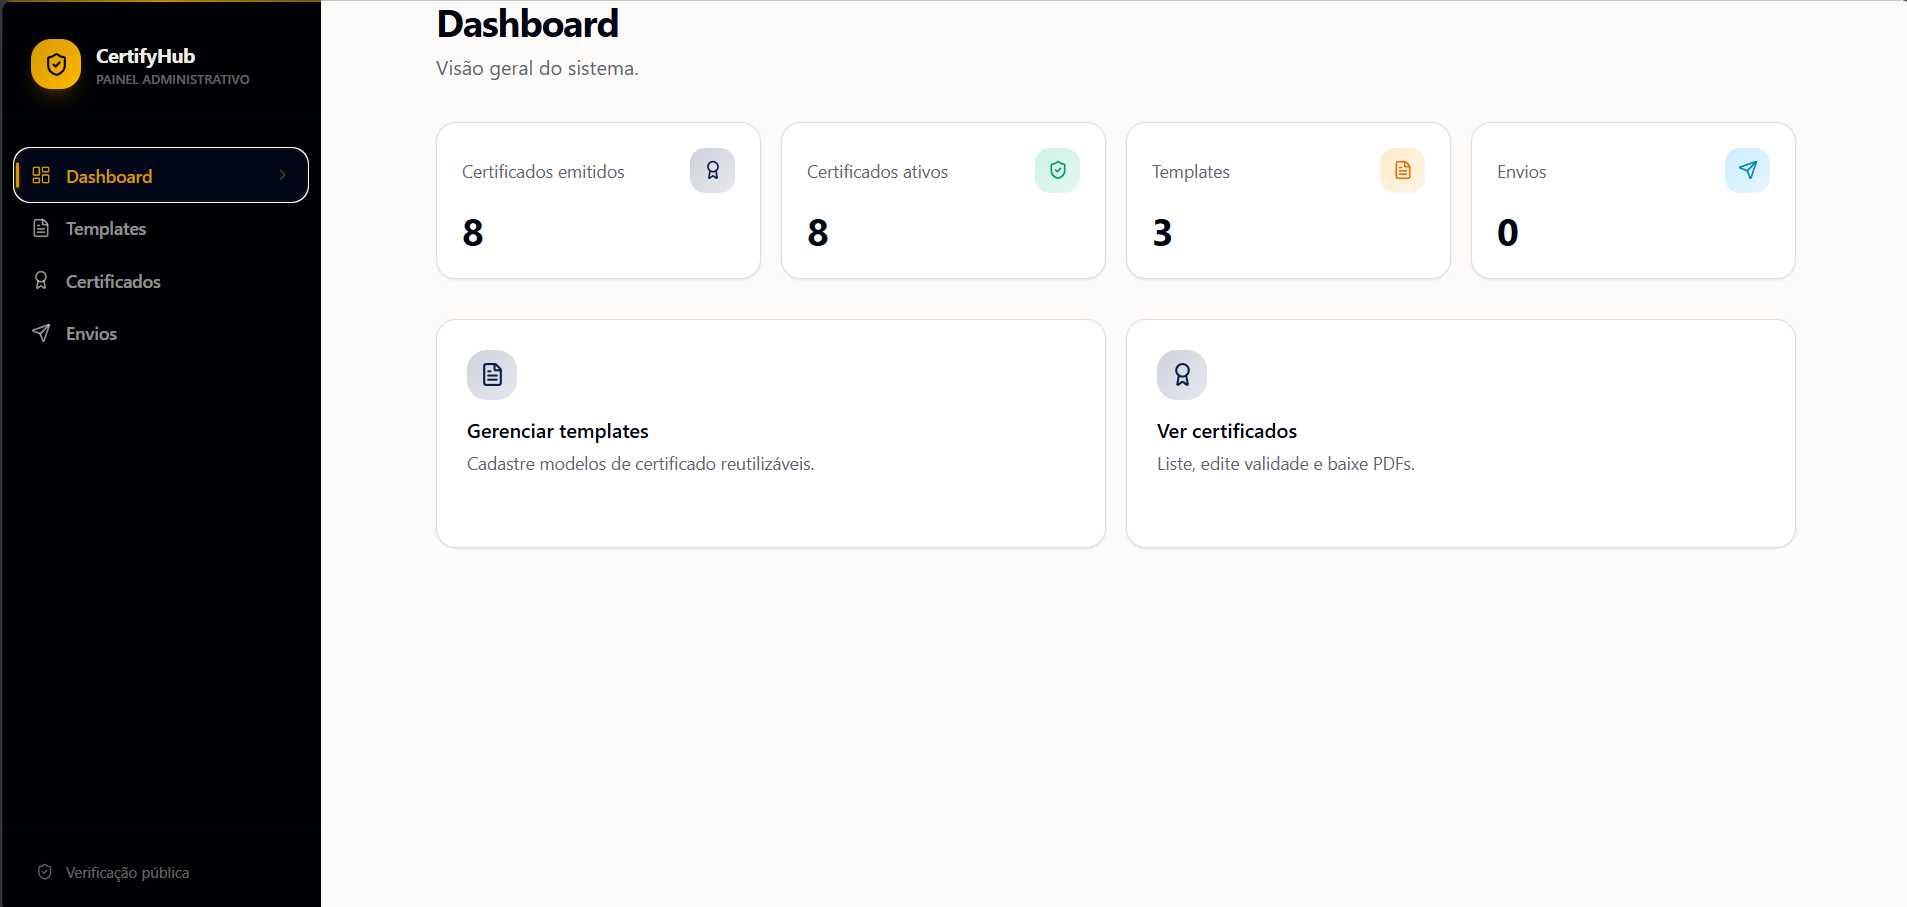
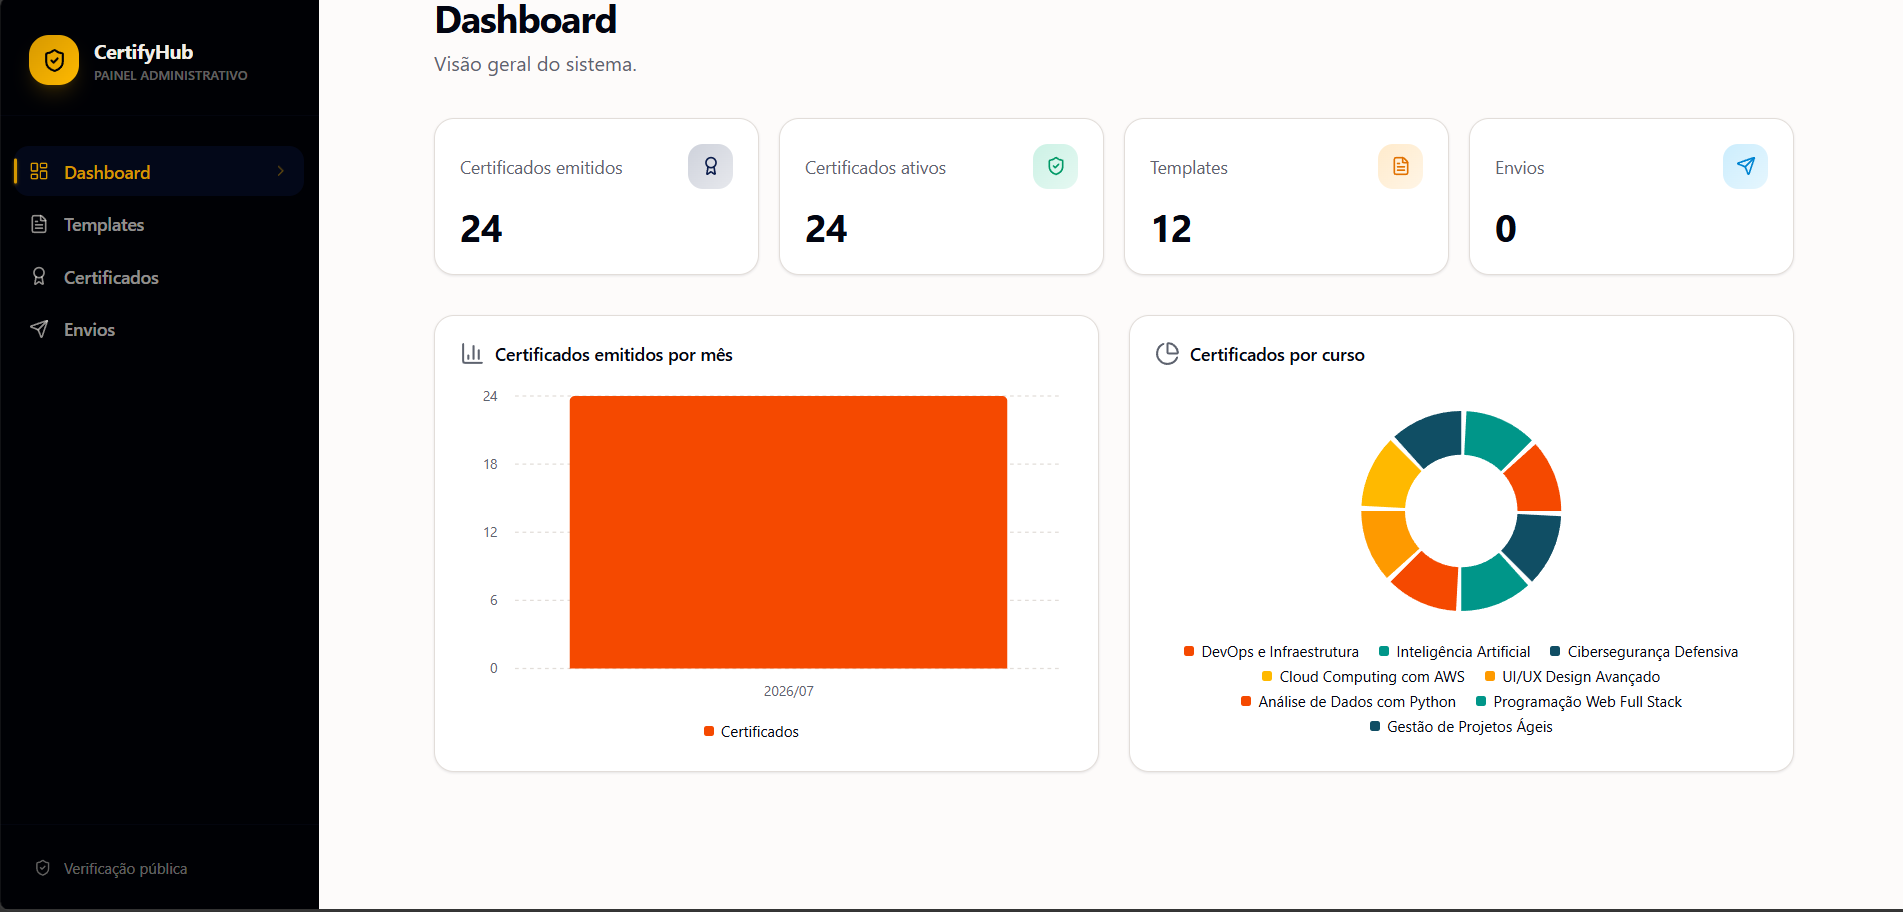
Atualiza repositorios, dashboard, testes frontend (121 testes, 13 suites) e justificativa do qrcode

diff --git a/partes/software.tex b/partes/software.tex
@@ -2,7 +2,7 @@
 
 \subsection{Implantação}
 
-O sistema é composto por duas aplicações independentes implantadas na plataforma Render, a partir de um repositório central no GitHub (\url{https://github.com/igordev23/Relatorio-Tecnico-de-Software---IFPI--Igor}). O sistema é publicado sob subdomínios automáticos fornecidos pela plataforma, garantindo tráfego criptografado via SSL/HTTPS de forma nativa. O frontend pode ser acessado, por exemplo, em \url{https://certificate-hub.onrender.com}, enquanto a API do backend responde em \url{https://certificate-server-zd0m.onrender.com}.
+O sistema é composto por duas aplicações independentes implantadas na plataforma Render, a partir de dois repositórios no GitHub: frontend (\url{https://github.com/igordev23/certificate-hub}) e backend (\url{https://github.com/igordev23/Certificate-server}). O sistema é publicado sob subdomínios automáticos fornecidos pela plataforma, garantindo tráfego criptografado via SSL/HTTPS de forma nativa. O frontend pode ser acessado, por exemplo, em \url{https://certificate-hub.onrender.com}, enquanto a API do backend responde em \url{https://certificate-server-zd0m.onrender.com}.
 
 \subsubsection{Arquitetura e Execução}
 
@@ -220,11 +220,11 @@ Os testes foram classificados como unitários, uma vez que cada módulo (fronten
 
 \input{partes/plano_testes}
 
-O Quadro~\ref{qua:plano-testes} relaciona 60 casos de teste mapeados, incluindo cenários funcionais, não-funcionais, \textit{end-to-end} e de resiliência. Cada caso pode ser validado por um ou mais testes automatizados, totalizando 276 testes unitários implementados com o framework Jest e 1 teste \textit{end-to-end} implementado com Playwright. A coluna \textbf{Status} indica se o caso foi executado por teste automatizado (\textit{Executado}), executado de forma limitada (\textit{Parcial}) ou apenas planejado sem automação (\textit{Planejado}). As subseções seguintes detalham os resultados da execução em cada módulo.
+O Quadro~\ref{qua:plano-testes} relaciona 60 casos de teste mapeados, incluindo cenários funcionais, não-funcionais, \textit{end-to-end} e de resiliência. Cada caso pode ser validado por um ou mais testes automatizados, totalizando 289 testes unitários implementados com o framework Jest e 1 teste \textit{end-to-end} implementado com Playwright. A coluna \textbf{Status} indica se o caso foi executado por teste automatizado (\textit{Executado}), executado de forma limitada (\textit{Parcial}) ou apenas planejado sem automação (\textit{Planejado}). As subseções seguintes detalham os resultados da execução em cada módulo.
 
 \subsubsection{Frontend (Certificate Hub)}
 
-O frontend contém 11 suítes de testes com 108 testes unitários, abrangendo as \textit{ViewModels} dos módulos de templates (\ref{rf:upload-templates}--\ref{rf:duplicar-templates}), certificados (\ref{rf:gerar-pdf}--\ref{rf:download-lote}), \textit{dashboard} (\ref{rf:lista-certificados}--\ref{rf:estatisticas-emissao}) e validação pública (\ref{rf:portal-validacao}--\ref{rf:exibir-validacao}), além dos serviços de API, componentes de formulário e dos modelos de domínio.
+O frontend contém 13 suítes de testes com 121 testes unitários, abrangendo as \textit{ViewModels} dos módulos de templates (\ref{rf:upload-templates}--\ref{rf:duplicar-templates}), certificados (\ref{rf:gerar-pdf}--\ref{rf:download-lote}), \textit{dashboard} (\ref{rf:lista-certificados}--\ref{rf:estatisticas-emissao}) e validação pública (\ref{rf:portal-validacao}--\ref{rf:exibir-validacao}), além dos serviços de API, componentes de formulário e dos modelos de domínio.
 
 A métrica de cobertura, gerada automaticamente pelo Jest por meio da ferramenta Istanbul, indica a proporção do código-fonte que é exercitada durante a execução dos testes. O relatório é organizado em quatro categorias: \textit{Statements} (comandos executados), \textit{Branches} (ramos de decisão, como \texttt{if/else}), \textit{Functions} (funções chamadas) e \textit{Lines} (linhas de código percorridas). A Figura~\ref{fig:coverage-frontend} apresenta o relatório de cobertura gerado para o frontend.
 
@@ -236,7 +236,7 @@ A métrica de cobertura, gerada automaticamente pelo Jest por meio da ferramenta
 \caption*{\small Fonte: Elaborado pelo autor}
 \end{figure}
 
-Conforme ilustrado, o frontend atingiu 95,58\% de cobertura de comandos (\textit{Statements}), 88,40\% de ramos (\textit{Branches}), 94,11\% de funções (\textit{Functions}) e 97,09\% de linhas (\textit{Lines}). O diretório \texttt{models} obteve cobertura total (100\%), enquanto \texttt{services} alcançou 94,59\% e \texttt{view-models} 95,70\% em comandos. A cobertura de ramos em \texttt{services} (88,88\%) reflete a presença de tratamentos condicionais de erro que não foram todos exercitados nos testes.
+Conforme ilustrado, o frontend atingiu 82,6\% de cobertura de comandos (\textit{Statements}), 65,38\% de ramos (\textit{Branches}), 83,33\% de funções (\textit{Functions}) e 83,66\% de linhas (\textit{Lines}). O \texttt{useEditCertificateViewModel.ts} passou de 0\% para 95,55\% em comandos e 100\% em funções após a inclusão de testes. O \texttt{schemas.test.ts} recebeu 9 novos testes para o \texttt{updateCertificateSchema}, abrangendo validação de CPF e campos obrigatórios. Os únicos ramos não cobertos (65,38\%) são os guards \texttt{if (!active)} no \texttt{useEffect} --- um aborto que só ocorre se o componente desmontar antes do \textit{fetch}, caso raro e aceitável.
 
 \subsubsection{Backend (Certificate Server)}
 
@@ -285,13 +285,13 @@ A Tabela~\ref{tab:testes-resumo} consolida os resultados dos testes em ambos os 
 \toprule
 \textbf{Módulo} & \textbf{Suítes} & \textbf{Testes} & \textbf{Cobertura} & \textbf{Tempo} \\
 \midrule
-Frontend (Certificate Hub) & 11 & 108 & 95,58\% & 38,57\,s \\
+Frontend (Certificate Hub) & 13 & 121 & 82,6\% & 38,57\,s \\
 Backend (Certificate Server) & 19 & 168 & 96,53\% & 14,86\,s \\
 E2E (Playwright) & 1 & 1 & -- & 8,43\,s \\
 \midrule
-\textbf{Total} & \textbf{31} & \textbf{277} & \textbf{--} & \textbf{61,86\,s} \\
+\textbf{Total} & \textbf{33} & \textbf{290} & \textbf{--} & \textbf{61,86\,s} \\
 \bottomrule
 \end{tabular}
 \vspace{0.3em}
-\footnotesize\textbf{Nota:} Os 277 testes automatizados (108 + 168 + 1 E2E) referem-se exclusivamente aos testes unitários, de integração e \textit{end-to-end}. Desses, 4 são casos de teste não-funcionais (CT052 a CT055): CT052 (carga) possui teste automatizado no backend com 10 chamadas concorrentes em \textless 5s; CT053 (autenticação) e CT054 (\textit{rate limiting}) foram integralmente automatizados no \textit{middleware}; CT055 (acessibilidade) possui teste automatizado de navegação Tab no frontend, porém sem auditoria com ferramentas como \texttt{axe-core}.
+\footnotesize\textbf{Nota:} Os 290 testes automatizados (121 + 168 + 1 E2E) referem-se exclusivamente aos testes unitários, de integração e \textit{end-to-end}. Desses, 4 são casos de teste não-funcionais (CT052 a CT055): CT052 (carga) possui teste automatizado no backend com 10 chamadas concorrentes em \textless 5s; CT053 (autenticação) e CT054 (\textit{rate limiting}) foram integralmente automatizados no \textit{middleware}; CT055 (acessibilidade) possui teste automatizado de navegação Tab no frontend, porém sem auditoria com ferramentas como \texttt{axe-core}.
 \end{table}

diff --git a/partes/resumo.tex b/partes/resumo.tex
@@ -2,7 +2,7 @@
 \textbf{RESUMO}
 \end{center}
 
-Empresas de treinamento e instituições educacionais ainda dependem de processos manuais e soluções improvisadas para emissão de certificados, o que gera retrabalho, inconsistências e ausência de mecanismos confiáveis de validação. Este trabalho apresenta o desenvolvimento de um sistema web no modelo SaaS (Software as a Service) para emissão, gestão e autenticação pública de certificados. A solução adota uma arquitetura desacoplada estruturada em duas aplicações independentes: um \textit{frontend} do tipo \textit{Single Page Application} (SPA) desenvolvido com React e TypeScript, e um \textit{backend} (Next.js) orientado aos princípios da Arquitetura Limpa, organizado nas camadas de apresentação, aplicação, domínio e infraestrutura. A persistência de dados ocorre em um banco relacional (PostgreSQL), enquanto a geração de PDFs é processada no servidor. As funcionalidades implementadas incluem \textit{templates} configuráveis com editor visual, emissão individual com código único e \textit{QR Code}, \textit{dashboard} gerencial e portal público de validação. O ciclo de vida da aplicação conta com \textit{pipeline} de CI/CD para integração e implantação contínuas em nuvem. A qualidade do software foi atestada por uma robusta suíte de testes automatizados (277 testes), alcançando cobertura de código superior a 95\% em ambos os módulos. Conclui-se que o produto, operando em produção como um Produto Mínimo Viável (MVP), atingiu os objetivos propostos, superando as restrições do fluxo manual por meio de uma plataforma escalável e segura.
+Empresas de treinamento e instituições educacionais ainda dependem de processos manuais e soluções improvisadas para emissão de certificados, o que gera retrabalho, inconsistências e ausência de mecanismos confiáveis de validação. Este trabalho apresenta o desenvolvimento de um sistema web no modelo SaaS (Software as a Service) para emissão, gestão e autenticação pública de certificados. A solução adota uma arquitetura desacoplada estruturada em duas aplicações independentes: um \textit{frontend} do tipo \textit{Single Page Application} (SPA) desenvolvido com React e TypeScript, e um \textit{backend} (Next.js) orientado aos princípios da Arquitetura Limpa, organizado nas camadas de apresentação, aplicação, domínio e infraestrutura. A persistência de dados ocorre em um banco relacional (PostgreSQL), enquanto a geração de PDFs é processada no servidor. As funcionalidades implementadas incluem \textit{templates} configuráveis com editor visual, emissão individual com código único e \textit{QR Code}, \textit{dashboard} gerencial e portal público de validação. O ciclo de vida da aplicação conta com \textit{pipeline} de CI/CD para integração e implantação contínuas em nuvem. A qualidade do software foi atestada por uma robusta suíte de testes automatizados (290 testes), alcançando cobertura de código superior a 95\% em ambos os módulos. Conclui-se que o produto, operando em produção como um Produto Mínimo Viável (MVP), atingiu os objetivos propostos, superando as restrições do fluxo manual por meio de uma plataforma escalável e segura.
 
 \noindent\textbf{Palavras-chave:} emissão de certificados; SaaS; arquitetura limpa; React; validação pública.
 
@@ -11,6 +11,6 @@ Empresas de treinamento e instituições educacionais ainda dependem de processo
 \textbf{ABSTRACT}
 \end{center}
 
-Training companies and educational institutions still rely on manual processes and improvised solutions for certificate issuance, leading to rework, inconsistencies, and a lack of reliable validation mechanisms. This work presents the development of a SaaS (Software as a Service) web system for issuing, managing, and publicly authenticating certificates. The solution adopts a decoupled architecture structured in two independent applications: a Single Page Application (SPA) frontend developed with React and TypeScript, and a backend (Next.js) oriented towards Clean Architecture principles, organized into presentation, application, domain, and infrastructure layers. Data persistence is handled by a relational database (PostgreSQL), while PDF generation is processed on the server-side. Implemented features include configurable templates with a visual editor, individual issuance with unique codes and QR Codes, a management dashboard, and a public validation portal. The application lifecycle is supported by a CI/CD pipeline for continuous integration and cloud deployment. Software quality was ensured by a robust automated testing suite (277 tests), achieving over 95\% code coverage in both modules. It is concluded that the product, running in production as a Minimum Viable Product (MVP), achieved the proposed objectives, overcoming the constraints of the manual workflow through a scalable and secure platform.
+Training companies and educational institutions still rely on manual processes and improvised solutions for certificate issuance, leading to rework, inconsistencies, and a lack of reliable validation mechanisms. This work presents the development of a SaaS (Software as a Service) web system for issuing, managing, and publicly authenticating certificates. The solution adopts a decoupled architecture structured in two independent applications: a Single Page Application (SPA) frontend developed with React and TypeScript, and a backend (Next.js) oriented towards Clean Architecture principles, organized into presentation, application, domain, and infrastructure layers. Data persistence is handled by a relational database (PostgreSQL), while PDF generation is processed on the server-side. Implemented features include configurable templates with a visual editor, individual issuance with unique codes and QR Codes, a management dashboard, and a public validation portal. The application lifecycle is supported by a CI/CD pipeline for continuous integration and cloud deployment. Software quality was ensured by a robust automated testing suite (290 tests), achieving over 95\% code coverage in both modules. It is concluded that the product, running in production as a Minimum Viable Product (MVP), achieved the proposed objectives, overcoming the constraints of the manual workflow through a scalable and secure platform.
 
 \noindent\textbf{Keywords:} certificate issuance; SaaS; clean architecture; React; public validation.

diff --git a/partes/tecnologias.tex b/partes/tecnologias.tex
@@ -124,11 +124,11 @@ No sistema, o PDFKitService implementa a interface \code{IPDFService} definida n
 \subsubsection{qrcode}
 \label{sec:qrcode}
 
-\code{qrcode} é uma biblioteca Node.js que gera imagens de QR Code nos formatos PNG, SVG e UTF-8, sem dependência de navegador \cite{qrcode2025}. A função \code{toBuffer()} é utilizada no serviço \code{PDFKitService} para converter a URL pública de verificação --- construída no formato \code{/verificar?cpf=...\&codigo=...} --- em um buffer de imagem PNG, que é inserido no certificado via \code{PDFKit.image()}. A URL segue o padrão da URL base de validação configurada via variável de ambiente \code{NEXT\_PUBLIC\_VERIFY\_URL}.
+\code{qrcode} é uma biblioteca Node.js que gera imagens de QR Code nos formatos PNG, SVG e UTF-8, sem dependência de navegador \cite{qrcode2025}. A função \code{toBuffer()} é utilizada no serviço \code{PDFKitService} para converter a URL pública de verificação --- construída no formato \code{/verificar?cpf=...\&codigo=...} --- em um buffer de imagem PNG, que é inserido no certificado via \code{PDFKit.image()}. Essa abordagem é necessária porque o PDFKit é um motor de renderização de PDF --- ele desenha textos, formas e imagens, mas não possui capacidade nativa de codificar QR Codes. A geração do QR Code, portanto, é delegada a uma biblioteca especializada externa.
 
-No sistema, o QR Code é gerado exclusivamente no servidor durante a produção do PDF, utilizando a cor primária do template (\code{template.layoutConfig.primaryColor}) para manter a identidade visual do documento. A legenda "Verifique o certificado" é posicionada abaixo do código para orientar o usuário.
+A opção de desenhar o QR Code manualmente com retângulos do PDFKit foi avaliada e preterida por três motivos: (1) \textbf{simplicidade} --- \code{toBuffer(url)} gera o PNG em uma linha, enquanto desenhar manualmente exigiria implementar a codificação Reed-Solomon e a matriz de módulos do QR; (2) \textbf{manutenção} --- a lógica de QR fica isolada na biblioteca; qualquer atualização de padrão ou segurança vem do pacote, sem necessidade de alterar o \code{PDFKitService}; e (3) \textbf{cor personalizada} --- o \code{qrcode} já suporta \code{color.dark} e \code{color.light} de fábrica, tornando trivial usar a cor primária do template (\code{template.layoutConfig.primaryColor}) sem manipulação adicional de pixels.
 
-Alternativas como o \code{node-qrcode} (wrapper C++) foram descartadas por sua API menos expressiva e ecossistema restrito. O uso de uma API nativa de desenho de QR Code diretamente com PDFKit também foi preterido, pois adicionaria complexidade desnecessária ao código de geração do PDF.
+No sistema, o QR Code é gerado exclusivamente no servidor durante a produção do PDF, utilizando a cor primária do template para manter a identidade visual do documento. A legenda "Verifique o certificado" é posicionada abaixo do código para orientar o usuário. Alternativas como o \code{node-qrcode} (wrapper C++) foram descartadas por sua API menos expressiva e ecossistema restrito.
 
 \subsection{Infraestrutura e Ferramentas}
 \label{sec:infra}

diff --git a/partes/modelagem.tex b/partes/modelagem.tex
@@ -66,7 +66,7 @@ A Figura~\ref{fig:home} apresenta a \textit{landing page} do sistema, que exibe 
 
 \subsubsection{Dashboard}
 
-A Figura~\ref{fig:dashboard} exibe o painel de controle principal do sistema, acessível a partir do menu lateral. O dashboard apresenta quatro cartões de estatísticas (certificados emitidos, certificados ativos, templates e envios) e dois atalhos de navegação para as páginas de gerenciamento de templates e certificados. O cartão "Envios" exibe valor zero porque o módulo de envio automático de e-mails não foi implementado no escopo do MVP --- o registro de envios no \textit{frontend} (\code{envios.ts}) é apenas uma estrutura simulada em armazenamento local, sem integração com provedores SMTP. Esta tela atende aos requisitos \textbf{\ref{rf:lista-certificados}} (exibir lista de certificados), \textbf{\ref{rf:filtros-certificados}} (filtros) e \textbf{\ref{rf:estatisticas-emissao}} (estatísticas de emissão).
+A Figura~\ref{fig:dashboard} exibe o painel de controle principal do sistema, acessível a partir do menu lateral. O dashboard apresenta quatro cartões de estatísticas (certificados emitidos, certificados ativos, templates e envios), um gráfico de barras de emissões por mês e um gráfico de pizza com a distribuição de certificados por curso. O cartão "Envios" exibe valor zero porque o módulo de envio automático de e-mails não foi implementado no escopo do MVP --- o registro de envios no \textit{frontend} (\code{envios.ts}) é apenas uma estrutura simulada em armazenamento local, sem integração com provedores SMTP. O gráfico de pizza contempla oito áreas temáticas: DevOps e Infraestrutura, Inteligência Artificial, Cibersegurança Defensiva, Cloud Computing com AWS, UI/UX Design Avançado, Análise de Dados com Python, Programação Web Full Stack e Gestão de Projetos Ágeis. Esta tela atende aos requisitos \textbf{\ref{rf:lista-certificados}} (exibir lista de certificados), \textbf{\ref{rf:filtros-certificados}} (filtros) e \textbf{\ref{rf:estatisticas-emissao}} (estatísticas de emissão).
 
 \begin{figure}[H]
 \centering
